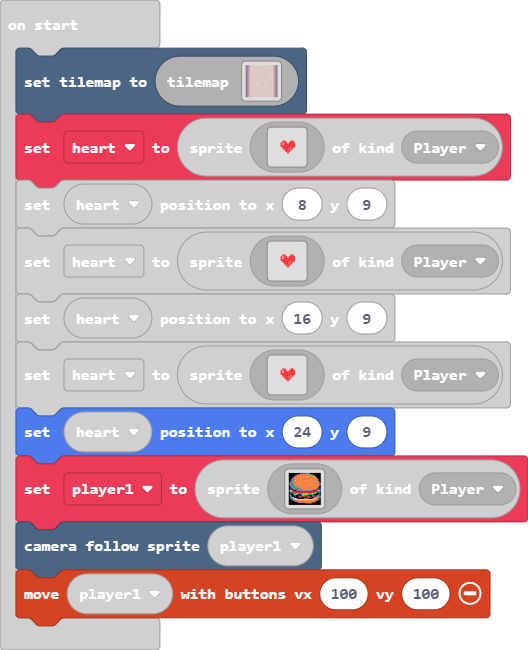
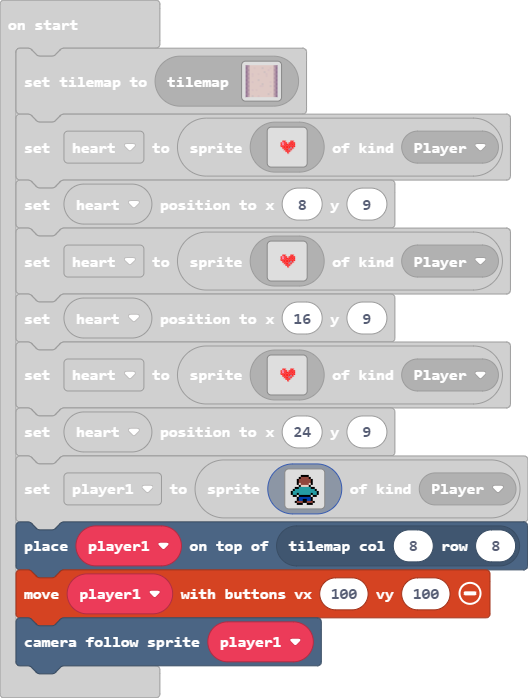
Update main.blocks, main.ts, images.g.jres, images.g.ts

diff --git a/images.g.ts b/images.g.ts
@@ -100,6 +100,25 @@ ffffffffffffffffffffffffffffffff
 ....................
 ....................
 `;
+            case "image5":
+            case "myImage":return img`
+. . . . . . . . . . . . . . . . 
+. . . . . . f f f f . . . . . . 
+. . . . . f e e e e f . . . . . 
+. . . . f e e e e e e f . . . . 
+. . . . f e e e e e e f . . . . 
+. . . . f d e e e e d f . . . . 
+. . . . . f d d d d f . . . . . 
+. . . f f 6 6 6 6 6 6 f f . . . 
+. . f 6 6 6 6 6 6 6 6 6 6 f . . 
+. f 6 6 6 6 6 6 6 6 6 6 6 6 f . 
+. f 6 6 f 6 6 6 6 6 6 f 6 6 f . 
+. . f f . f f f f f f . f f . . 
+. . . . f 8 8 8 8 8 8 f . . . . 
+. . . . f 8 8 f f 8 8 f . . . . 
+. . . f e e e f f e e e f . . . 
+. . . . f f f . . f f f . . . . 
+`;
         }
         return null;
     })

diff --git a/main.ts b/main.ts
@@ -5,6 +5,7 @@ heart = sprites.create(assets.image`heart`, SpriteKind.Player)
 heart.setPosition(16, 9)
 heart = sprites.create(assets.image`heart`, SpriteKind.Player)
 heart.setPosition(24, 9)
-let player1 = sprites.create(assets.image`Burger`, SpriteKind.Player)
-scene.cameraFollowSprite(player1)
+let player1 = sprites.create(assets.image`myImage`, SpriteKind.Player)
+tiles.placeOnTile(player1, tiles.getTileLocation(8, 8))
 controller.moveSprite(player1, 100, 100)
+scene.cameraFollowSprite(player1)
